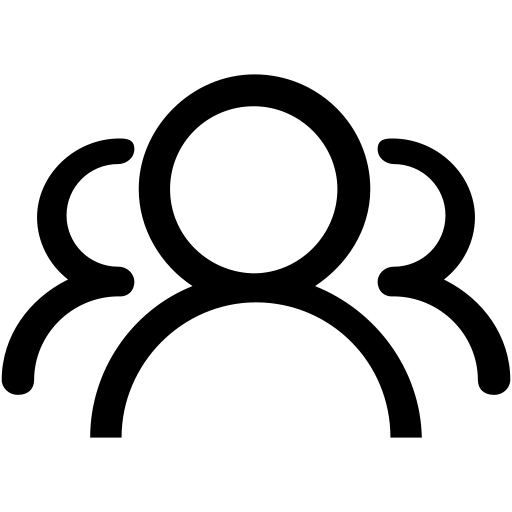
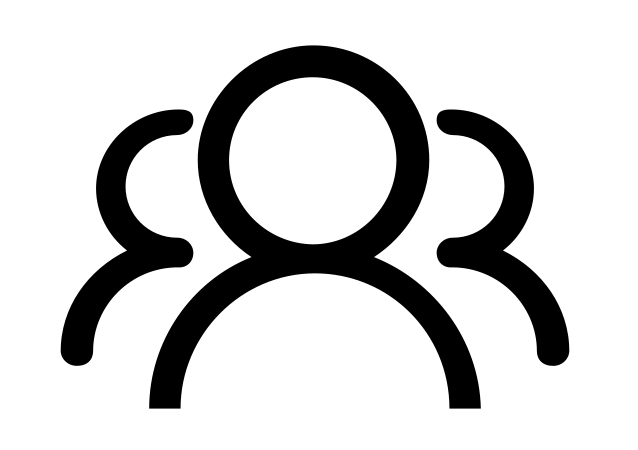
Add files via upload

Changed region(s): [[0.0, 0.1867, 1.0, 0.9333], [0.3438, 0.0933, 0.625, 0.2489], [0.4062, 0.4978, 0.5312, 0.56]]

diff --git a/index.html b/index.html
@@ -8,8 +8,8 @@
     <meta name="format-detection" content="telephone=no">
     <meta property="og:image" content="images/thumbnail.png">
     <meta property="og:image:type" content="image/png">
-    <meta property="og:image:width" content="512">
-    <meta property="og:image:height" content="512">
+    <meta property="og:image:width" content="638">
+    <meta property="og:image:height" content="450">
     <meta property="og:title" content="GŠG Ib">
     <meta property="og:description" content="Created by Matas">
     <title>GŠG Ib</title>
